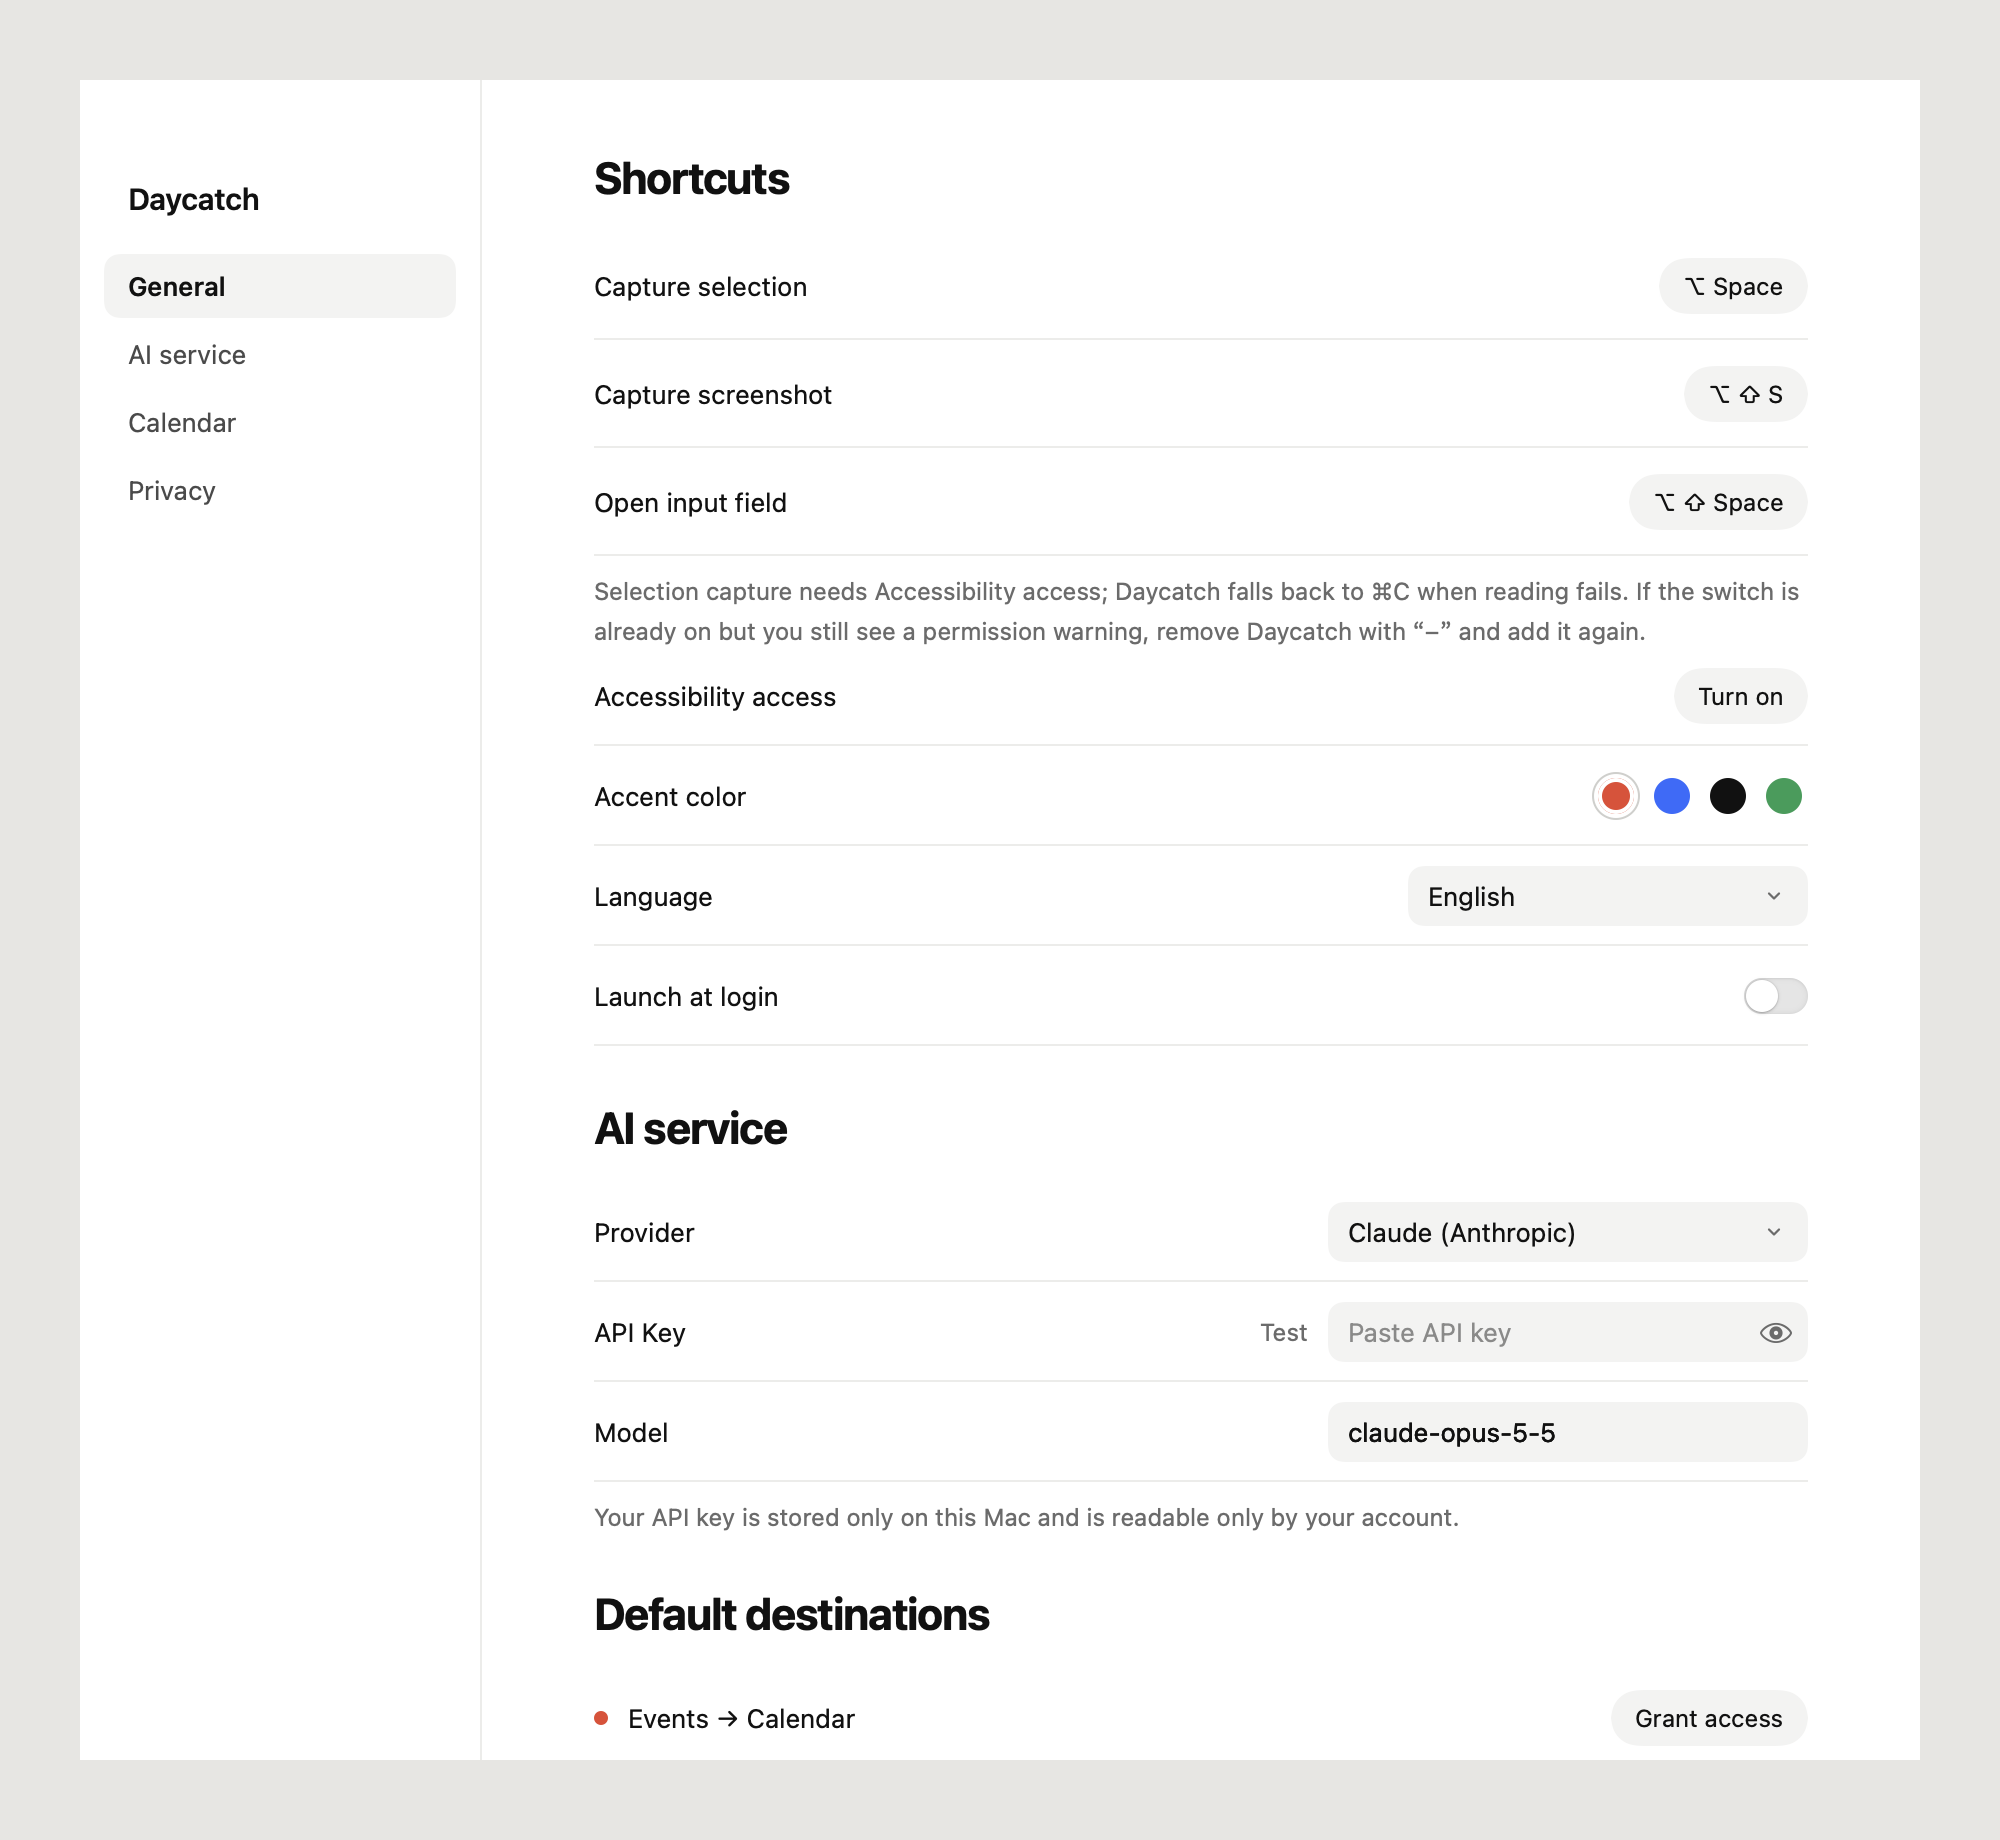
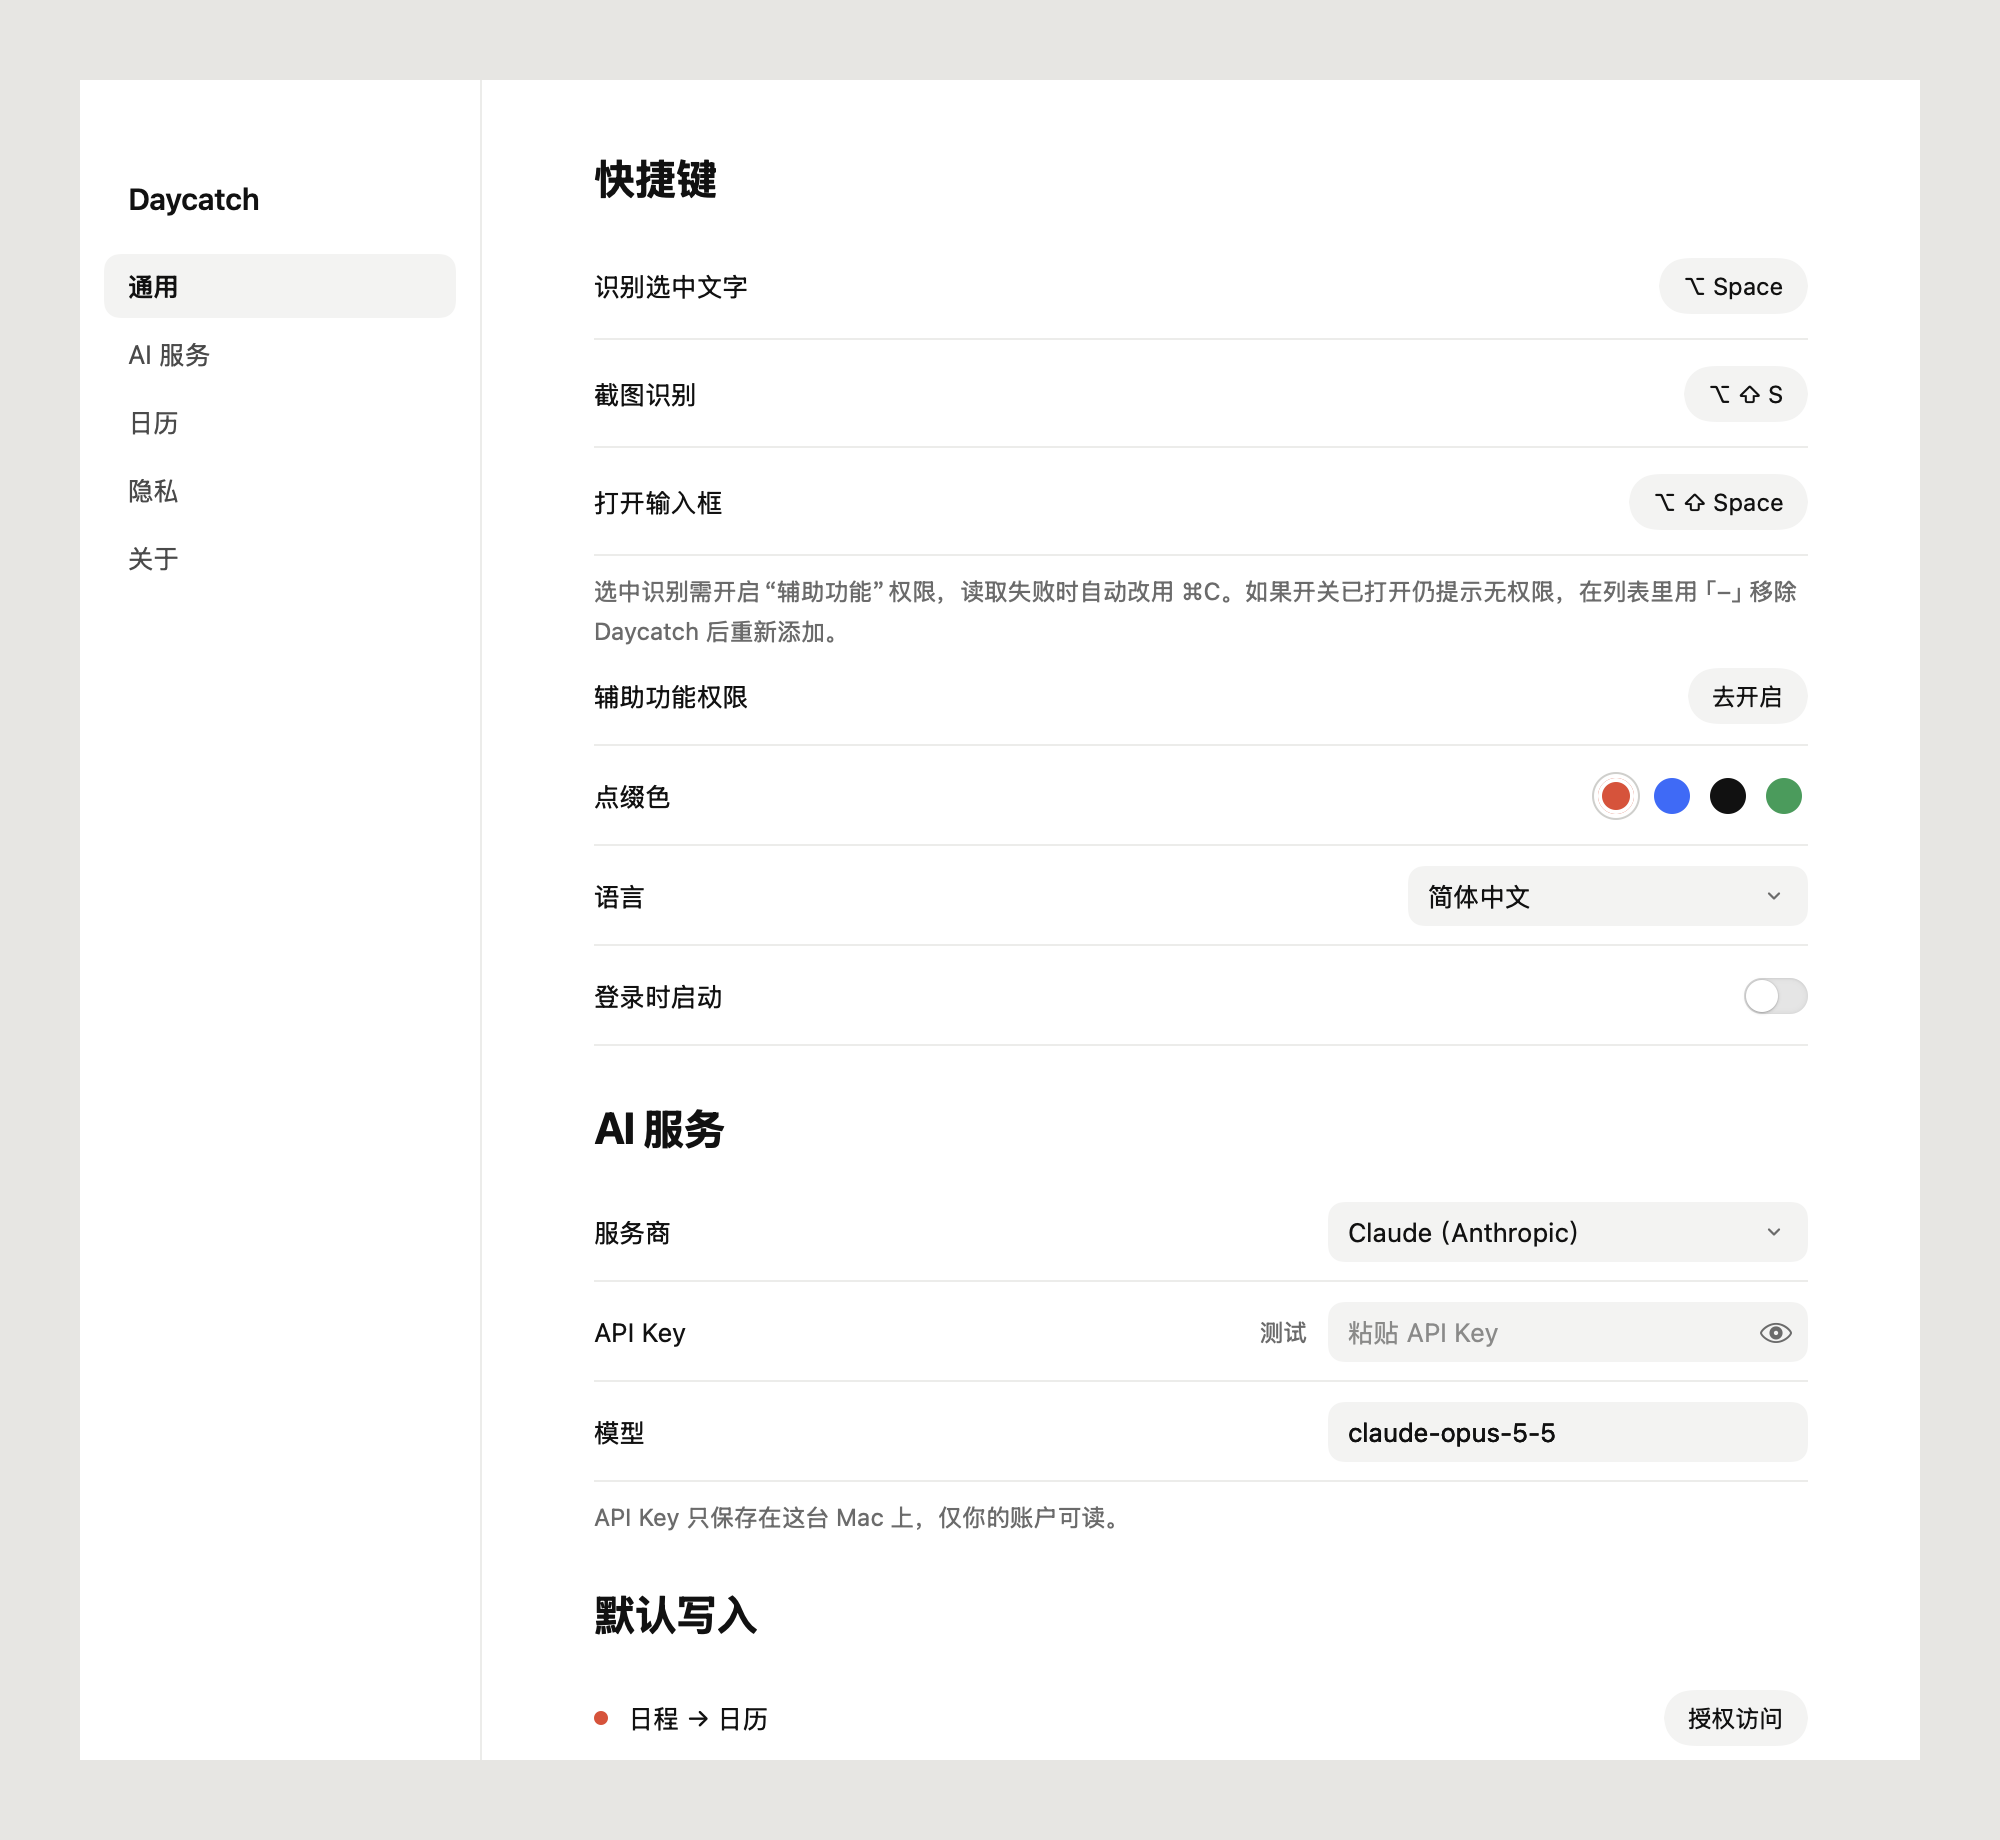
docs: document install, auto-update and release process
- README（中/英）：Homebrew 安装（含 brew trust）、自动更新说明
- docs/updates.md：密钥备份、make release 流程、tap 同步、签名与硬化运行时的
  两个坑、不联网本地验证更新的方法、排错表
- 设置页新增「关于」，重新生成截图

diff --git a/docs/updates.md b/docs/updates.md
@@ -1,0 +1,167 @@
+# 自动更新与发版
+
+Daycatch 用 [Sparkle 2](https://sparkle-project.org) 做自动更新，版本信息放在 GitHub Release 上的 `appcast.xml` 里。
+
+```
+发版：  make release VERSION=0.2.0
+          └→ archive → 自签名 → zip → generate_appcast（EdDSA 签名）
+             → git tag + push → gh release create（zip + appcast.xml）→ 刷新 Casks/daycatch.rb
+
+用户：  启动 / 每 24h 拉一次 appcast.xml（releases/latest/download）
+          └→ 版本更新？→ 右下角卡片「有新版本 0.2.0 · 更新」
+             → Sparkle 下载 → 校验 EdDSA + 代码签名 → 替换 /Applications 里的 app → 重启
+```
+
+## 三个关键值
+
+| 值 | 位置 | 说明 |
+| --- | --- | --- |
+| `SUFeedURL` | `project.yml` 的 `SPARKLE_FEED_URL` | 固定写 `https://github.com/luckyabner/daycatch/releases/latest/download/appcast.xml`。`latest` 会自动指向最新一个正式 Release，所以每发一版只换附件，地址不用改。 |
+| `SUPublicEDKey` | `project.yml` 的 `SPARKLE_PUBLIC_KEY` | EdDSA 公钥，校验更新包用。 |
+| 私钥 | `.signing/sparkle_ed25519.key` | **必须备份**。丢了就再也没法给已发布的版本发更新。 |
+
+版本号两个字段，缺一不可：
+
+- `CFBundleShortVersionString`（`MARKETING_VERSION`）= 给人看的 `0.2.0`，`make` 里默认取最近一个 git tag。
+- `CFBundleVersion`（`CURRENT_PROJECT_VERSION`）= Sparkle 比较用的整数，`make` 里取 `git rev-list --count HEAD`。**必须严格递增**：如果哪天 rebase / squash 让它变小了，发出去的更新会被老版本忽略，需要手动调大。
+
+## 签名密钥
+
+当前这套密钥是 `Sparkle/bin/generate_keys` 生成的：
+
+- 私钥：`.signing/sparkle_ed25519.key`（44 字符 base64，权限 600，`.signing/` 已 gitignore），同时也存在你的登录钥匙串（account `ed25519`）。
+- 公钥：就是 `project.yml` 里的 `SPARKLE_PUBLIC_KEY`。
+
+**立刻把 `.signing/` 备份到 1Password / iCloud 之类的地方。** 想换机器时把私钥文件放回 `.signing/` 即可（`make release` 用 `--ed-key-file` 读它，不依赖钥匙串）。
+
+要重新生成一套（会切断老用户的更新通道，慎用）：
+
+```sh
+build/sparkle/bin/generate_keys            # 生成并打印新的 SUPublicEDKey
+build/sparkle/bin/generate_keys -x .signing/sparkle_ed25519.key   # 导出私钥文件
+```
+
+## 发版
+
+前置：`gh auth login` 已登录，工作区干净。
+
+```sh
+make release VERSION=0.2.0 NOTES=docs/notes/0.2.0.md
+```
+
+`NOTES` 可选，是个 markdown 文件；有它的内容会作为 appcast 里的更新说明和 Release 的说明。
+
+这条命令依次做：
+
+1. `xcodebuild archive`（Release，注入 `MARKETING_VERSION` / `CURRENT_PROJECT_VERSION`）
+2. `scripts/sign.sh` 用本地自签名证书重签（含 Sparkle 的 `Autoupdate`、`Updater.app` 和两个 XPC 组件，见下文）
+3. `ditto` 打成 `Daycatch-<版本>.zip`（不能用 `zip(1)`，会丢符号链接和扩展属性）
+4. `generate_appcast` 写 EdDSA 签名、生成 `appcast.xml`（最多保留 3 个版本）
+5. `git tag v<版本>` 并 push
+6. `gh release create` 上传 zip + `appcast.xml`
+7. 用新 zip 的 sha256 刷新 `Casks/daycatch.rb`
+8. 把 cask 推到 tap 仓库（`make tap`，release 末尾会自动跑）
+
+如果本机没有 tap 仓库的克隆：
+
+```sh
+git clone https://github.com/luckyabner/homebrew-daycatch.git ../homebrew-daycatch
+make tap          # 同步 Casks/daycatch.rb 并 push
+```
+
+## Homebrew 安装
+
+cask 放在 [luckyabner/homebrew-daycatch](https://github.com/luckyabner/homebrew-daycatch) 仓库（Homebrew 约定 `homebrew-<名字>`，所以 tap 名是 `luckyabner/daycatch`）：
+
+```sh
+brew trust luckyabner/daycatch
+brew install --cask luckyabner/daycatch/daycatch
+```
+
+写全了是 `<用户名>/<tap 名>/<cask 名>`。也可以先 tap 再按短名装：
+
+```sh
+brew tap luckyabner/daycatch
+brew trust luckyabner/daycatch
+brew install --cask daycatch
+```
+
+**为什么要 `brew trust`**：新版 Homebrew 默认拒绝加载第三方 tap 里的 cask，必须在信任之后才能装。首次安装时它也会提示这行命令。
+
+**为什么 cask 里要做 `postflight` 去 quarantine**：应用是自签名、没公证的，`brew` 下载后文件仍然带 `com.apple.quarantine`，直接启动会被 Gatekeeper 拦下（「Apple 无法验证」）。cask 里的 postflight 会把隔离属性去掉，等价于用户自己跑 `xattr -dr com.apple.quarantine /Applications/Daycatch.app`。更新包由 Sparkle 做 EdDSA 签名校验，不依赖 Gatekeeper。
+
+cask 里写了 `auto_updates true`，告诉 Homebrew「这个 app 自己会更新」，`brew upgrade` 不会跟 Sparkle 打架。没写 `depends_on macos:`：Homebrew 4.6 里 `:sonoma` 表示「只允许 Sonoma」，`">= :sonoma"` 又会报弃用警告，最低系统版本交给 app 自己的 `LSMinimumSystemVersion`。
+
+改完 cask 可以本地自查（都在干净状态下无输出）：
+
+```sh
+brew style  luckyabner/daycatch/daycatch
+brew audit --cask luckyabner/daycatch/daycatch
+```
+
+**cask 的 `sha256` 必须和已发布的 zip 一致**，所以只在新 release 上传之后才能同步 tap。
+
+## 签名相关的两个坑
+
+**1. 自签证书没有 Team ID，硬化运行时拒绝加载 Sparkle。**
+
+`scripts/sign.sh` 用 `--options runtime` 开启硬化运行时，dyld 的 library validation 要求加载的框架与主程序同 Team ID。自签名证书没有 Team ID，两边对不上就会启动即崩：
+
+```
+Library not loaded: @rpath/Sparkle.framework/Versions/B/Sparkle
+Reason: ... mapping process and mapped file (non-platform) have different Team IDs
+```
+
+所以 `Daycatch.entitlements` 里加了 `com.apple.security.cs.disable-library-validation`。只关这一项，硬化运行时的其余保护（W^X、禁用未签名可执行内存等）照旧生效。将来买了 Apple Developer ID，可以把它去掉。
+
+**2. 证书必须稳定。**
+
+`.signing/` 里的证书决定 TCC 授权（日历、辅助功能）和 Sparkle 对「更新包签名是否和当前版本一致」的判断。**删掉 `.signing/` 会生成新证书**，结果是：用户要重新授权一遍，而且老版本收不到新证书签的更新。备份它。
+
+## 本地验证更新流程（不发版也能测）
+
+`SPARKLE_FEED_URL` 可以用本地 http 服务顶替。临时在 `project.yml` 里加两行（测完删掉）：
+
+```yaml
+SUAllowsInsecureUpdates: true     # 允许 http feed，仅测试用
+SUAutomaticallyUpdate: true       # 不想点对话框时：静默装完，退出时替换
+```
+
+```sh
+# 1. 造「旧版本」：0.0.9，指向本地 feed
+xcodebuild -project Daycatch.xcodeproj -scheme Daycatch -derivedDataPath /tmp/e2e/old -configuration Debug \
+  MARKETING_VERSION=0.0.9 CURRENT_PROJECT_VERSION=1 \
+  SPARKLE_FEED_URL=http://127.0.0.1:8899/appcast.xml build
+ditto /tmp/e2e/old/Build/Products/Debug/Daycatch.app /tmp/e2e/install/Daycatch.app
+scripts/sign.sh /tmp/e2e/install/Daycatch.app
+
+# 2. 造「新版本」：0.1.0，打成 zip 放进 feed 目录
+xcodebuild ... MARKETING_VERSION=0.1.0 CURRENT_PROJECT_VERSION=2 build
+ditto /tmp/e2e/new/Daycatch.app /tmp/e2e/feed/Daycatch-0.1.0.zip   # 先 ditto 出 .app 再 zip
+build/sparkle/bin/generate_appcast /tmp/e2e/feed \
+  --ed-key-file .signing/sparkle_ed25519.key \
+  --download-url-prefix http://127.0.0.1:8899/
+
+# 3. 起服务 → 启动旧版本 → 看它自己更新
+(cd /tmp/e2e/feed && python3 -m http.server 8899 &)
+open /tmp/e2e/install/Daycatch.app
+
+# 4. 校验结果
+/usr/libexec/PlistBuddy -c Print:CFBundleShortVersionString /tmp/e2e/install/Daycatch.app/Contents/Info.plist
+```
+
+Sparkle 的日志都在 `org.sparkle-project.Sparkle` 子系统里，排查时最有用的命令：
+
+```sh
+log show --last 5m --predicate 'subsystem == "org.sparkle-project.Sparkle"' --style compact
+```
+
+## 排错
+
+| 现象 | 原因 / 处理 |
+| --- | --- |
+| 「已是最新版本」但明明发了新版 | `CFBundleVersion` 没有比客户端大（不是 `CFBundleShortVersionString`）；或 Release 是 draft / prerelease，`releases/latest` 不会指向它 |
+| `EdDSA signature does not match` | 签名用的私钥和 `SUPublicEDKey` 不是一对；或 zip 在签名后被改动过 |
+| `An error occurred while running the updater` | 通常是从 DMG 直接运行、路径只读、或没有写 `/Applications` 的权限 |
+| 更新窗口不出现，只在右下角弹卡片 | 预期行为：后台检查用「温和提醒」（`UpdateController` 实现了 `supportsGentleScheduledUpdateReminders`），点卡片上的「更新」才弹 Sparkle 窗口 |
+| 用户首次安装被 Gatekeeper 拦 | 走 `brew install --cask`（cask 的 postflight 会去掉 quarantine）；从浏览器自己下 zip 的话需要手动 `xattr -dr com.apple.quarantine /Applications/Daycatch.app` |

diff --git a/README.md b/README.md
@@ -44,6 +44,22 @@ No more copying “Thursday 3pm, Q4 review, Room 302” out of Slack or iMessage
 - [XcodeGen](https://github.com/yonaskolb/XcodeGen) — `brew install xcodegen`
 - An API key for one of the supported AI providers
 
+## Install
+
+```sh
+brew trust luckyabner/daycatch                          # Homebrew requires trusting third-party taps
+brew install --cask luckyabner/daycatch/daycatch
+```
+
+You can also build from source — see below.
+
+## Updates
+
+Daycatch updates itself with [Sparkle](https://sparkle-project.org): it checks GitHub Releases once every 24 hours in the background, and when a new version exists a card appears in the corner — click **Update** to download, verify the signature, replace the app, and relaunch.
+You can also check by hand: **Settings → About → Check now**, or right-click the menu bar icon → **Check for Updates…**.
+
+Your settings and granted system permissions survive updates. See [docs/updates.md](docs/updates.md) for the release process and signing keys.
+
 ## Build and run
 
 ```sh
@@ -54,6 +70,7 @@ make build      # generate Daycatch.xcodeproj and build Debug
 make test       # run unit tests (offline, no app launch)
 make run        # build, then launch — a calendar icon appears in the menu bar
 make snapshot   # render every screen with sample data to build/snapshots/
+make release VERSION=0.2.0   # publish: zip + signature + appcast + GitHub Release (see docs/updates.md)
 ```
 
 `Daycatch.xcodeproj` is generated from `project.yml` — don't edit it by hand.
@@ -138,7 +155,7 @@ The test target compiles the pure-logic sources (`Model`, `AI`, `Shortcut`, `Cre
 - The UI is currently **Simplified Chinese only**. Localization PRs are very welcome.
 - macOS only; no iOS companion.
 - One API key per provider, stored locally in a plain file (see Privacy).
-- Not notarized — this is a build-from-source project, not a signed download.
+- Not notarized — it is signed with a project-local self-signed certificate, so install it with Homebrew (see Install) rather than a browser download.
 
 ## Contributing
 
